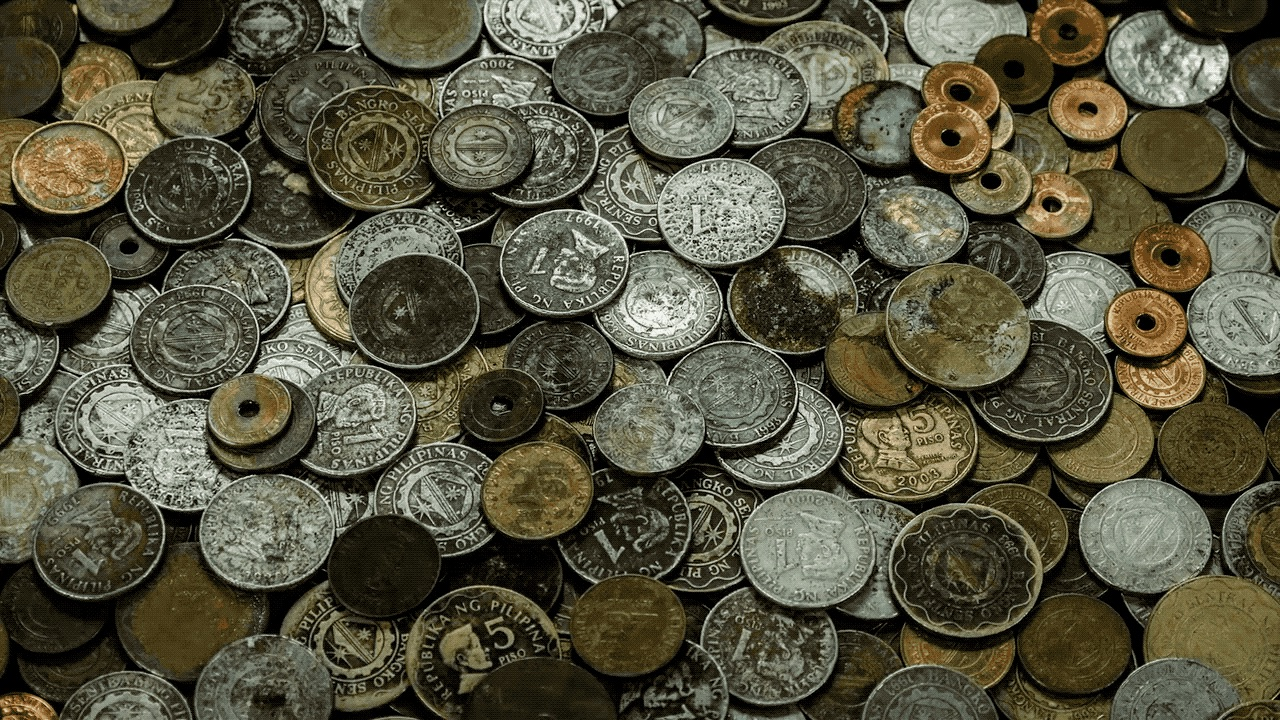
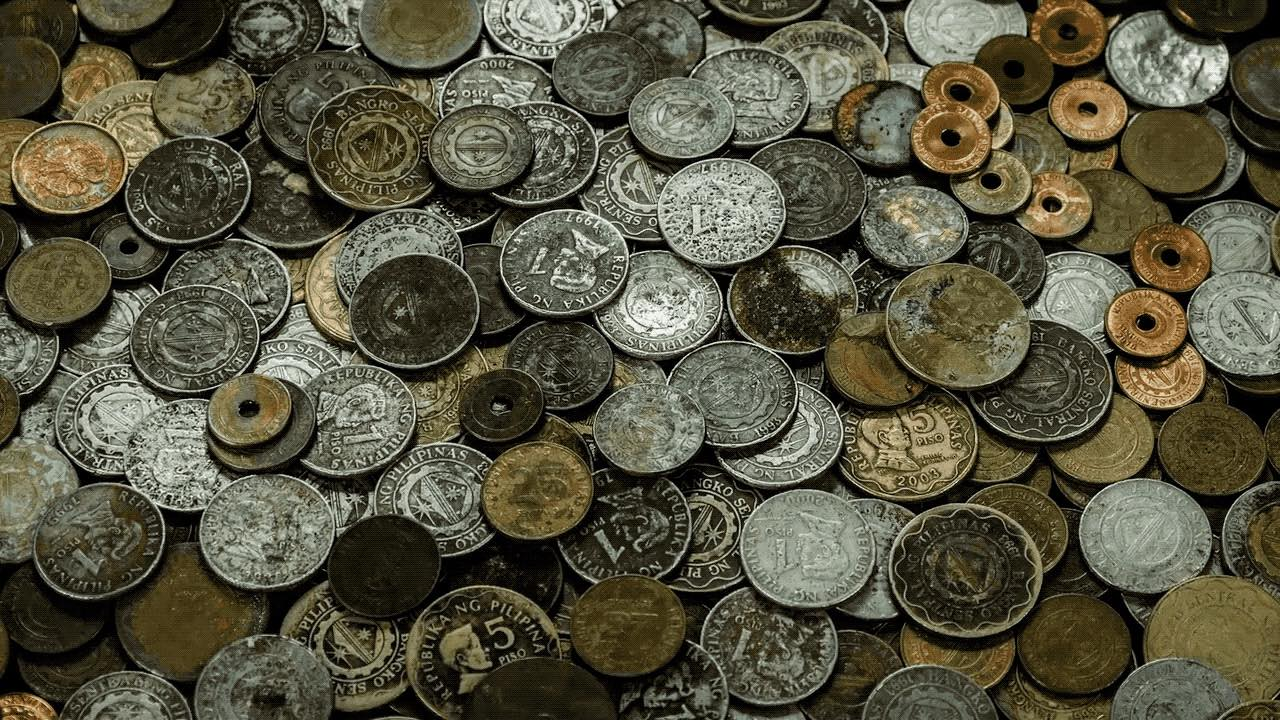
Optimize about cover for slower connections.

diff --git a/packages/web/src/about/VideoCover.tsx b/packages/web/src/about/VideoCover.tsx
@@ -1,5 +1,5 @@
 import * as React from 'react'
-import { createElement, Image, StyleSheet, View, ViewStyle } from 'react-native'
+import { createElement, Image, StyleSheet, View, ViewStyle, NetInfo } from 'react-native'
 import { BeautifulMoneyPreview } from 'src/about/images/index'
 import { H1, H3 } from 'src/fonts/Fonts'
 import { I18nProps, NameSpaces, withNamespaces } from 'src/i18n'
@@ -8,8 +8,11 @@ import Hoverable from 'src/shared/Hoverable'
 import { PlayCircle2 } from 'src/shared/PlayCircle'
 import VideoModal from 'src/shared/VideoModal'
 import { standardStyles, textStyles } from 'src/styles'
+
+import { getEffectiveConnection, SLOW_CONNECTIONS } from 'src/utils/utils'
 interface State {
   isHovering: boolean
+  supportsVideo: boolean
 }
 
 interface VideoProps {
@@ -28,6 +31,7 @@ function Video(props: VideoProps) {
 class VideoCover extends React.PureComponent<I18nProps & ScreenProps, State> {
   state: State = {
     isHovering: false,
+    supportsVideo: false,
   }
 
   onHoverStart = () => {
@@ -35,6 +39,14 @@ class VideoCover extends React.PureComponent<I18nProps & ScreenProps, State> {
   }
   onHoverEnd = () => {
     this.setState({ isHovering: false })
+  }
+
+  componentDidMount = () => {
+    const connectionType = getEffectiveConnection(window.navigator)
+    console.log(connectionType)
+    if (!SLOW_CONNECTIONS.has(connectionType)) {
+      this.setState({ supportsVideo: true })
+    }
   }
 
   render() {
@@ -49,11 +61,17 @@ class VideoCover extends React.PureComponent<I18nProps & ScreenProps, State> {
             loop={true}
             poster="/static/AboutPreview.jpg"
           >
-            <source
-              src="https://storage.googleapis.com/celo_whitepapers/about-video.mp4"
-              type="video/mp4"
+            {this.state.supportsVideo && (
+              <source
+                src="https://storage.googleapis.com/celo_whitepapers/about-video.mp4"
+                type="video/mp4"
+              />
+            )}}
+            <Image
+              resizeMode="cover"
+              source={{ uri: '/static/AboutPreview.jpg' }}
+              style={standardStyles.image}
             />
-            <Image resizeMode="cover" source={BeautifulMoneyPreview} style={standardStyles.image} />
           </Video>
         </View>
         <View style={[styles.overlay, standardStyles.centered]}>

diff --git a/packages/web/src/utils/utils.ts b/packages/web/src/utils/utils.ts
@@ -12,3 +12,24 @@ export function scrollTo(elementID: string, position?: 'start' | 'center') {
     })
   }
 }
+
+export function getEffectiveConnection(navigator): EffectiveTypes {
+  const connection = navigator.connection || navigator.mozConnection || navigator.webkitConnection
+  console.log(connection)
+  return (connection && connection.effectiveType) || 'unknown'
+}
+
+// from http://wicg.github.io/netinfo/#dom-effectiveconnectiontype-slow-2g
+enum EffectiveTypes {
+  '2g' = '2g',
+  '3g' = '3g',
+  '4g' = '4g',
+  'slow-2g' = 'slow-2g',
+  'unknown' = 'unknown',
+}
+
+export const SLOW_CONNECTIONS = new Set([
+  EffectiveTypes['2g'],
+  EffectiveTypes['slow-2g'],
+  EffectiveTypes['3g'],
+])
